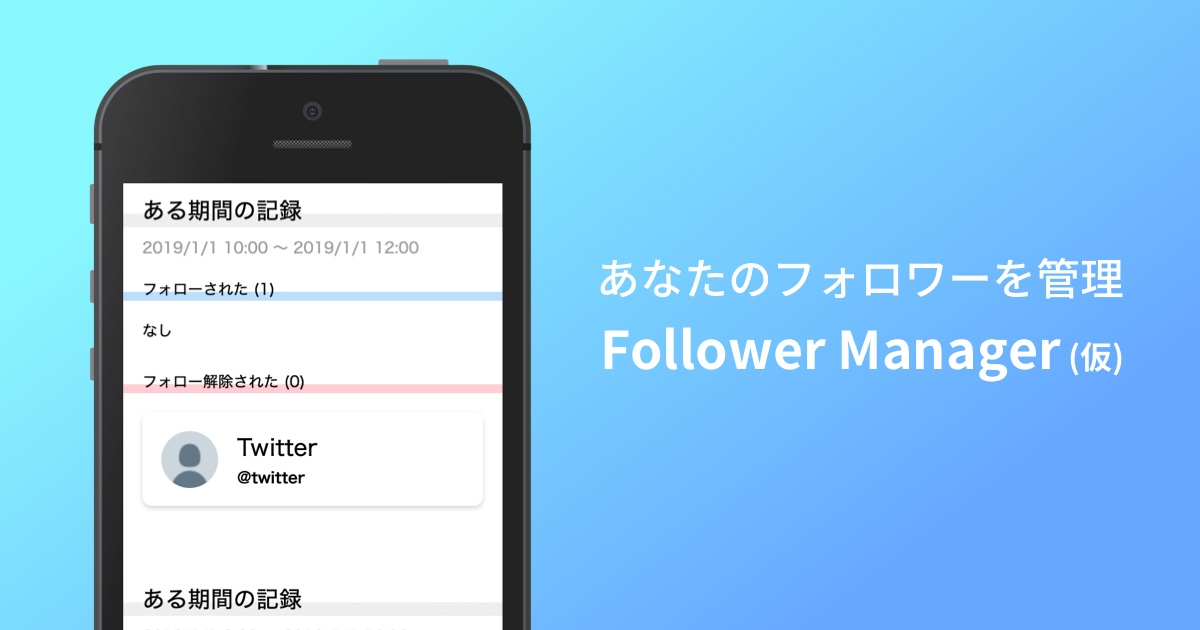
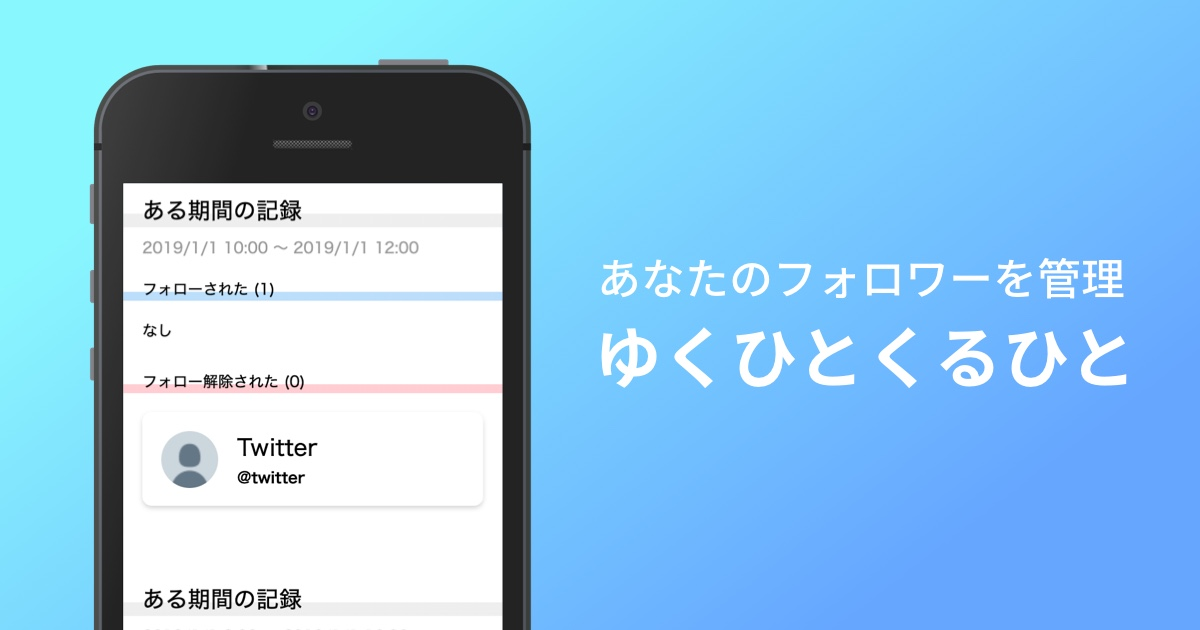
feat(app): rename app name

diff --git a/src/components/pages/My/My.tsx b/src/components/pages/My/My.tsx
@@ -30,21 +30,7 @@ export const My: React.FC<MyProps> = ({ isLoading, items, signOut }) => {
                 {durationStart.toDate().toLocaleString()} 〜 {durationEnd.toDate().toLocaleString()}
               </p>
               <section>
-                <h3 css={CameHeadStyle}>フォローされた ({cameUsers.length})</h3>
-                {cameUsers.length ? (
-                  <ul style={{ listStyle: 'none' }}>
-                    {cameUsers.map((user, j) => (
-                      <li key={`item-${i}-cameuser-${j}`}>
-                        <UserCard item={user} />
-                      </li>
-                    ))}
-                  </ul>
-                ) : (
-                  <p css={EmptyTextStyle}>なし</p>
-                )}
-              </section>
-              <section>
-                <h3 css={LeftHeadStyle}>フォロー解除された ({leftUsers.length})</h3>
+                <h3 css={LeftHeadStyle}>ゆくひと ({leftUsers.length})</h3>
                 <ul>
                   {leftUsers.length ? (
                     <ul style={{ listStyle: 'none' }}>
@@ -58,6 +44,20 @@ export const My: React.FC<MyProps> = ({ isLoading, items, signOut }) => {
                     <p css={EmptyTextStyle}>なし</p>
                   )}
                 </ul>
+              </section>
+              <section>
+                <h3 css={CameHeadStyle}>くるひと ({cameUsers.length})</h3>
+                {cameUsers.length ? (
+                  <ul style={{ listStyle: 'none' }}>
+                    {cameUsers.map((user, j) => (
+                      <li key={`item-${i}-cameuser-${j}`}>
+                        <UserCard item={user} />
+                      </li>
+                    ))}
+                  </ul>
+                ) : (
+                  <p css={EmptyTextStyle}>なし</p>
+                )}
               </section>
             </section>
           )

diff --git a/public/index.html b/public/index.html
@@ -4,23 +4,23 @@
     <meta charset="utf-8" />
     <meta name="viewport" content="width=device-width, initial-scale=1" />
     <meta name="theme-color" content="#000000" />
-    <title>Follower Manager (仮) alpha</title>
+    <title>ゆくひとくるひと alpha</title>
     <meta name="description" content="あなたのフォロワーを管理します">
 
-    <meta itemprop="name" content="Follower Manager (仮)">
+    <meta itemprop="name" content="ゆくひとくるひと">
     <meta itemprop="description" content="あなたのフォロワーを管理します">
-    <meta itemprop="image" content="https://follower-manager-2df81.web.app/ogp.jpg">
+    <meta itemprop="image" content="https://yukukuru.app/ogp.jpg">
 
-    <meta property="og:url" content="https://follower-manager-2df81.web.app">
+    <meta property="og:url" content="https://yukukuru.app">
     <meta property="og:type" content="website">
-    <meta property="og:title" content="Follower Manager (仮)">
+    <meta property="og:title" content="ゆくひとくるひと">
     <meta property="og:description" content="あなたのフォロワーを管理します">
-    <meta property="og:image" content="https://follower-manager-2df81.web.app/ogp.jpg">
+    <meta property="og:image" content="https://yukukuru.app/ogp.jpg">
 
     <meta name="twitter:card" content="summary_large_image">
-    <meta name="twitter:title" content="Follower Manager (仮)">
+    <meta name="twitter:title" content="ゆくひとくるひと">
     <meta name="twitter:description" content="あなたのフォロワーを管理します">
-    <meta name="twitter:image" content="https://follower-manager-2df81.web.app/ogp.jpg">
+    <meta name="twitter:image" content="https://yukukuru.app/ogp.jpg">
   </head>
   <body>
     <noscript>You need to enable JavaScript to run this app.</noscript>

diff --git a/src/components/pages/Top/Top.tsx b/src/components/pages/Top/Top.tsx
@@ -15,7 +15,7 @@ export const Top: React.FC<TopProps> = ({ isLoading, signIn }) => {
   ) : (
     <div css={WrapperStyle}>
       <section css={InnerStyle}>
-        <h1 style={{ fontSize: '1.2rem', fontWeight: 'normal', marginBottom: 16 }}>Follower Manager (仮) alpha</h1>
+        <h1 style={{ fontSize: '1.2rem', fontWeight: 'normal', marginBottom: 16 }}>ゆくひとくるひと alpha</h1>
         <p style={{ fontSize: '0.8em', marginBottom: 16 }}>あなたのフォロワーを管理します</p>
         <img src={image} alt="利用イメージ" style={{ width: 120, marginBottom: 16, borderRadius: 4, boxShadow: '0 2px 4px 0 rgba(0, 0, 0, 0.19)' }} />
         <button css={SignInButtonStyle} onClick={signIn}>

diff --git a/README.md b/README.md
@@ -1,1 +1,1 @@
-# follower-manager (仮)
+# follower-manager
